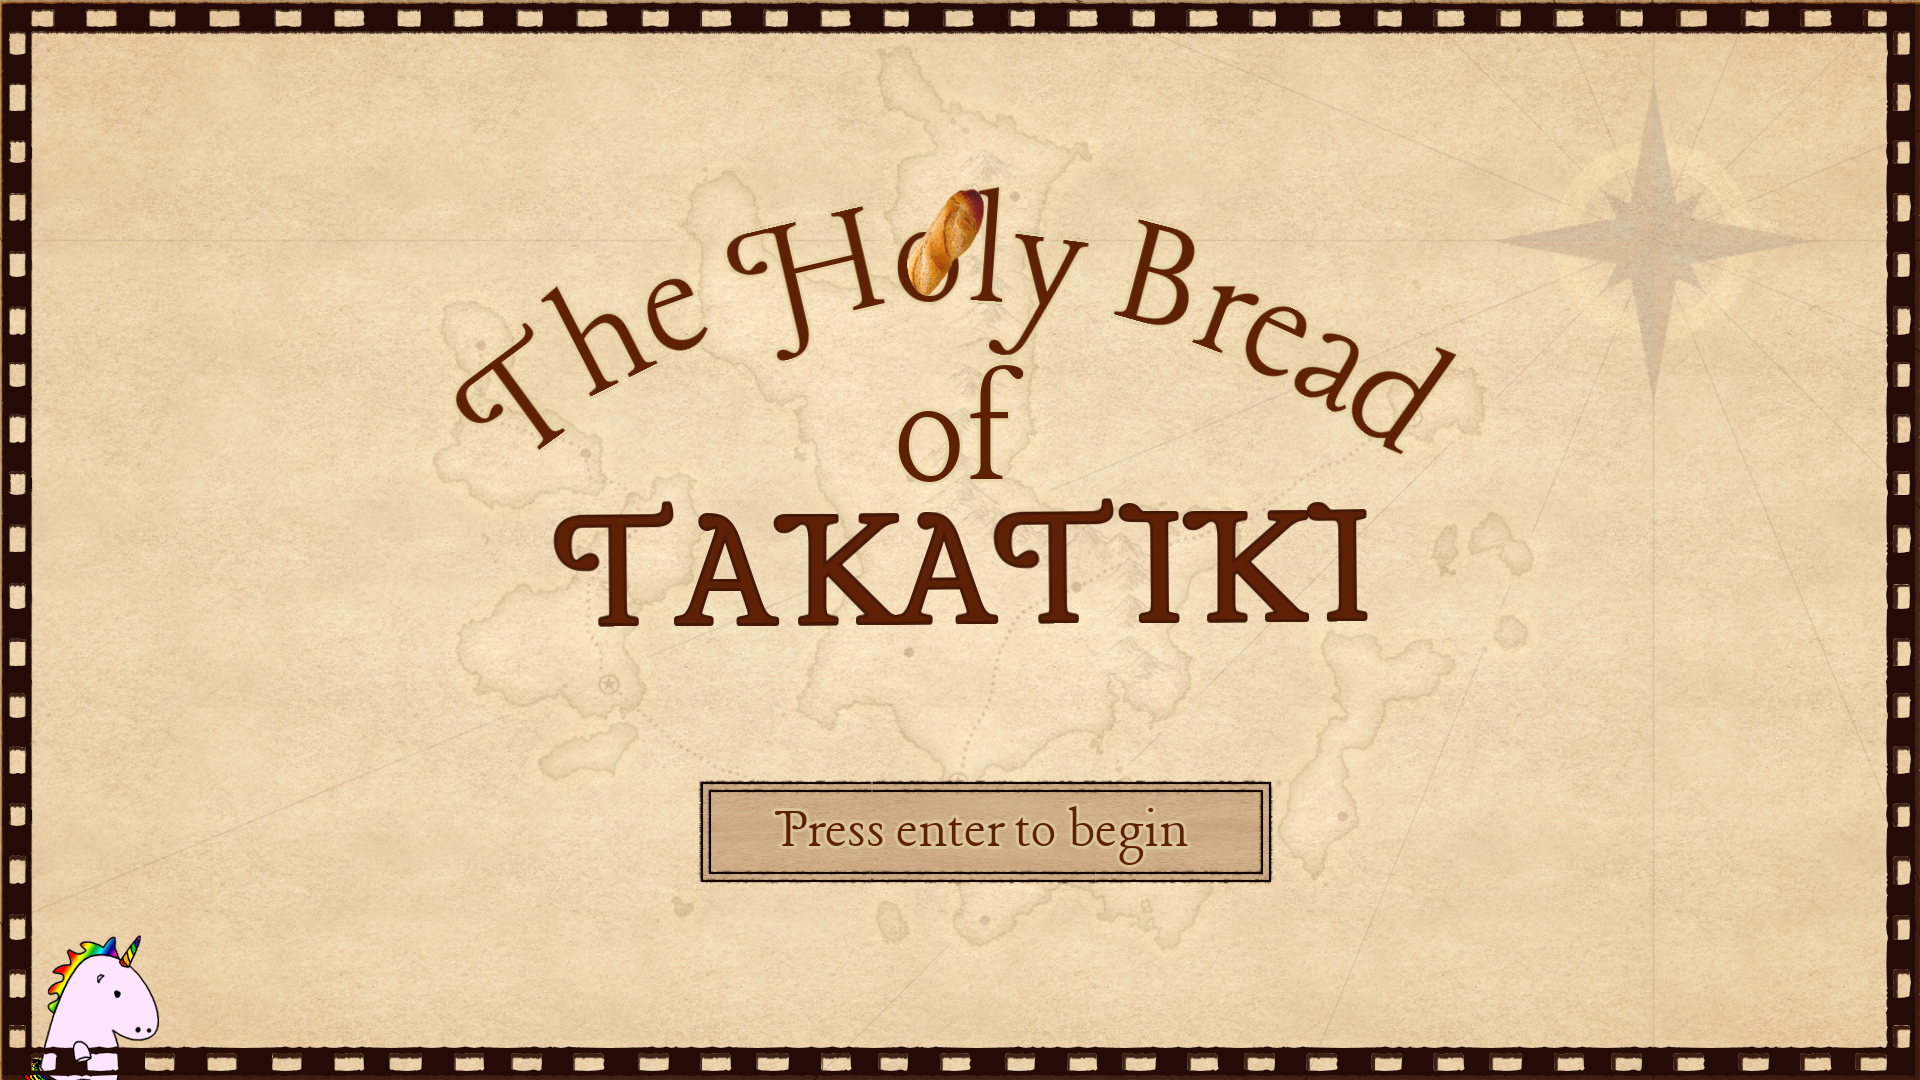
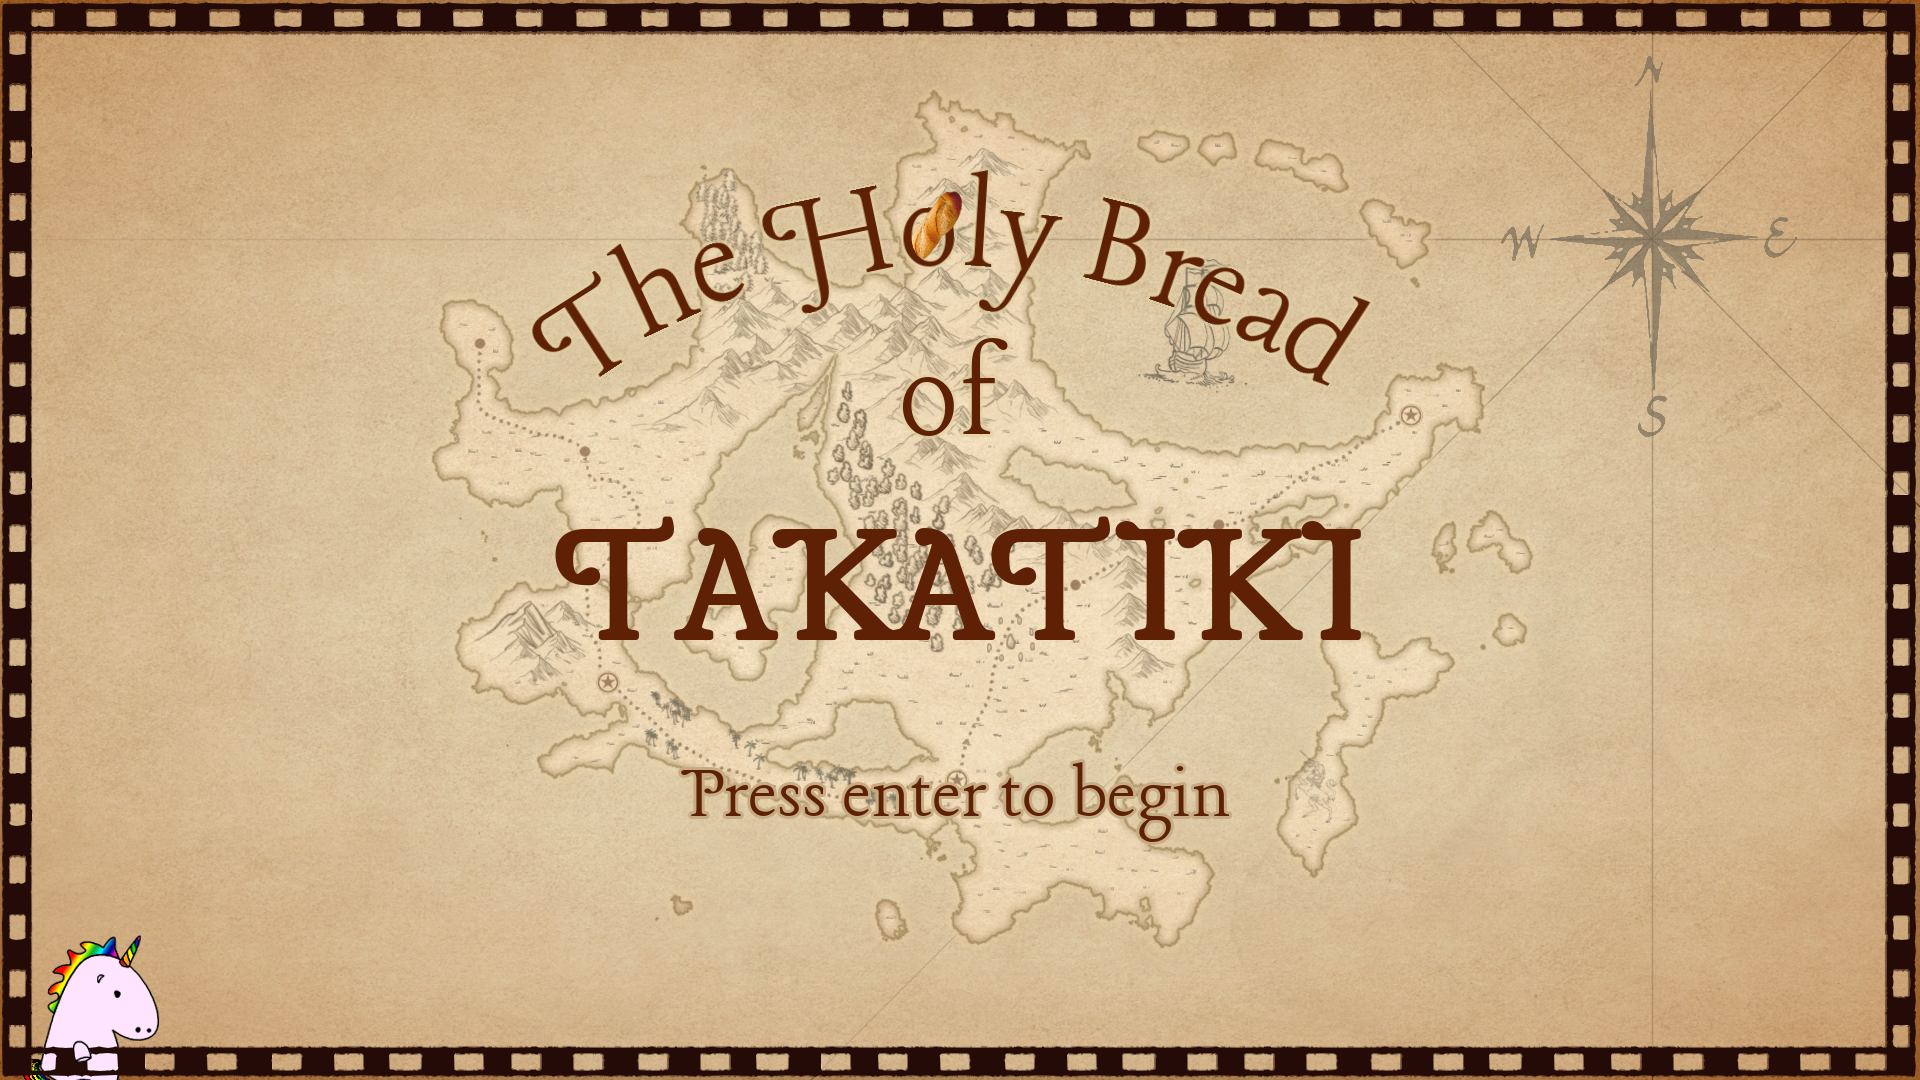
final push

diff --git a/main.cpp b/main.cpp
@@ -83,7 +83,7 @@ void constructBuyList(std::shared_ptr<DialogNode> shop, std::shared_ptr<DialogNo
 
 int main( int argc, char *argv[] ){
 	srand(static_cast<unsigned int>(time(NULL)));
-	sf::RenderWindow window(sf::VideoMode(1920, 1080), "The Holy Bread of Takatiki");
+	sf::RenderWindow window(sf::VideoMode(1920, 1080), "The Holy Bread of Takatiki", sf::Style::Fullscreen);
 	window.setFramerateLimit(60);
 
 	//=======================================================
@@ -139,13 +139,7 @@ int main( int argc, char *argv[] ){
 	//=======================================================
 	// Creating Character
 	//=======================================================
-	std::pair< std::string, std::string> anubisPair;
-	anubisPair.first = "Assets/Anubis/Idle_all.png";
-	anubisPair.second = "Assets/Anubis/Idle_000.png";
-	std::shared_ptr<Monster> testMonster = std::make_shared<Monster>("Jim", anubisPair);
-	testMonster->setDeathAnimation("Assets/Anubis/Dying_all.png");
-	std::vector<std::shared_ptr<Monster>> monsterVector = { testMonster };
-	Mob monsters = (monsterVector);
+
 
 	Party *hParty;
 	DM.load(hParty);
@@ -183,8 +177,55 @@ int main( int argc, char *argv[] ){
 	//=======================================================
 	// Creating Combat
 	//=======================================================
+	std::pair< std::string, std::string> anubisPair1;
+	anubisPair1.first = "Assets/Anubis/Idle_all.png";
+	anubisPair1.second = "Assets/Anubis/Idle_000.png";
+	std::shared_ptr<Monster> testMonster1 = std::make_shared<Monster>("Jim", anubisPair1);
+	testMonster1->setDeathAnimation("Assets/Anubis/Dying_all.png");
+	std::vector<std::shared_ptr<Monster>> monsterVector1 = { testMonster1 };
+	Mob monsters1 = (monsterVector1);
 
-	Combat testCombat(window, heroParty, monsters, "combatBackGround", background);
+	Combat testCombat1(window, heroParty, monsters1, "combatBackGround", background);
+
+	std::pair< std::string, std::string> anubisPair2;
+	anubisPair2.first = "Assets/Anubis/Idle_all.png";
+	anubisPair2.second = "Assets/Anubis/Idle_000.png";
+	std::shared_ptr<Monster> testMonster2 = std::make_shared<Monster>("Jim", anubisPair2);
+	testMonster2->setDeathAnimation("Assets/Anubis/Dying_all.png");
+	std::vector<std::shared_ptr<Monster>> monsterVector2 = { testMonster2 };
+	Mob monsters2 = (monsterVector2);
+
+	Combat testCombat2(window, heroParty, monsters2, "combatBackGround", background);
+
+	std::pair< std::string, std::string> anubisPair3;
+	anubisPair3.first = "Assets/Anubis/Idle_all.png";
+	anubisPair3.second = "Assets/Anubis/Idle_000.png";
+	std::shared_ptr<Monster> testMonster3 = std::make_shared<Monster>("Jim", anubisPair3);
+	testMonster3->setDeathAnimation("Assets/Anubis/Dying_all.png");
+	std::vector<std::shared_ptr<Monster>> monsterVector3 = { testMonster3 };
+	Mob monsters3 = (monsterVector3);
+
+	Combat testCombat3(window, heroParty, monsters3, "combatBackGround", background);
+
+	std::pair< std::string, std::string> anubisPair4;
+	anubisPair4.first = "Assets/Anubis/Idle_all.png";
+	anubisPair4.second = "Assets/Anubis/Idle_000.png";
+	std::shared_ptr<Monster> testMonster4 = std::make_shared<Monster>("Jim", anubisPair4);
+	testMonster4->setDeathAnimation("Assets/Anubis/Dying_all.png");
+	std::vector<std::shared_ptr<Monster>> monsterVector4 = { testMonster4 };
+	Mob monsters4 = (monsterVector4);
+
+	Combat testCombat4(window, heroParty, monsters4, "combatBackGround", background);
+
+	std::pair< std::string, std::string> anubisPair5;
+	anubisPair5.first = "Assets/Anubis/Idle_all.png";
+	anubisPair5.second = "Assets/Anubis/Idle_000.png";
+	std::shared_ptr<Monster> testMonster5 = std::make_shared<Monster>("Jim", anubisPair5);
+	testMonster5->setDeathAnimation("Assets/Anubis/Dying_all.png");
+	std::vector<std::shared_ptr<Monster>> monsterVector5 = { testMonster5 };
+	Mob monsters5 = (monsterVector5);
+
+	Combat testCombat5(window, heroParty, monsters5, "combatBackGround", background);
 
 	//=======================================================
 	// Creating Menu
@@ -219,13 +260,21 @@ int main( int argc, char *argv[] ){
 	
 	
 
-	std::shared_ptr<DialogNode> shopDialogNode0(new DialogNode("Do you wish to buy or sell items?"));
-	std::shared_ptr<DialogNode> shopDialogBuyNode(new DialogNode("What item do you wish to buy?"));
-	std::shared_ptr<DialogNode> shopDialogSellNode(new DialogNode("What item do you wish to sell?"));
+	std::shared_ptr<DialogNode> shopDialogNode0(new DialogNode("Do you wish to buy or sell items?", "town"));
+	std::shared_ptr<DialogNode> shopDialogBuyNode0(new DialogNode("What item do you wish to buy?", "town"));
+	std::shared_ptr<DialogNode> shopDialogSellNode0(new DialogNode("What item do you wish to sell?", "town"));
 
-	std::shared_ptr<DialogNode> smithDialogNode0(new DialogNode("Do you wish to buy or sell weapons and armor?"));
-	std::shared_ptr<DialogNode> smithDialogBuyNode(new DialogNode("What item do you wish to buy?"));
-	std::shared_ptr<DialogNode> smithDialogSellNode(new DialogNode("What item do you wish to sell?"));
+	std::shared_ptr<DialogNode> smithDialogNode0(new DialogNode("Do you wish to buy or sell weapons and armor?", "town"));
+	std::shared_ptr<DialogNode> smithDialogBuyNode0(new DialogNode("What item do you wish to buy?", "town"));
+	std::shared_ptr<DialogNode> smithDialogSellNode0(new DialogNode("What item do you wish to sell?", "town"));
+
+	std::shared_ptr<DialogNode> shopDialogNode1(new DialogNode("Do you wish to buy or sell items?", "town"));
+	std::shared_ptr<DialogNode> shopDialogBuyNode1(new DialogNode("What item do you wish to buy?", "town"));
+	std::shared_ptr<DialogNode> shopDialogSellNode1(new DialogNode("What item do you wish to sell?", "town"));
+
+	std::shared_ptr<DialogNode> smithDialogNode1(new DialogNode("Do you wish to buy or sell weapons and armor?", "town"));
+	std::shared_ptr<DialogNode> smithDialogBuyNode1(new DialogNode("What item do you wish to buy?", "town"));
+	std::shared_ptr<DialogNode> smithDialogSellNode1(new DialogNode("What item do you wish to sell?", "town"));
 
 	std::map<std::string, Armor> inventoryArmor;
 	std::map<std::string, Weapon> inventoryWeapon;
@@ -248,19 +297,28 @@ int main( int argc, char *argv[] ){
 		shopInventoryVector.push_back(std::make_shared<Consumable>(item.second));
 	}
 
-	// MapToVec(
+	// town 1
 	//shop
-	std::function<void()> shopBuyFunc = [&] {constructBuyList(shopDialogBuyNode, shopDialogNode0, heroParty, shopInventoryVector); };
-	shopDialogNode0->addDialogOption(std::make_shared<DialogOption>("Buy", shopDialogBuyNode, shopBuyFunc));
-	std::function<void()> shopSellFunc = [&] {constructSellList(shopDialogSellNode, shopDialogNode0, heroParty); };
-	shopDialogNode0->addDialogOption(std::make_shared<DialogOption>("Sell", shopDialogSellNode, shopSellFunc));
+	std::function<void()> shopBuyFunc = [&] {constructBuyList(shopDialogBuyNode0, shopDialogNode0, heroParty, shopInventoryVector); };
+	shopDialogNode0->addDialogOption(std::make_shared<DialogOption>("Buy", shopDialogBuyNode0, shopBuyFunc));
+	std::function<void()> shopSellFunc = [&] {constructSellList(shopDialogSellNode0, shopDialogNode0, heroParty); };
+	shopDialogNode0->addDialogOption(std::make_shared<DialogOption>("Sell", shopDialogSellNode0, shopSellFunc));
 	//smith
-	std::function<void()> smithBuyFunc = [&] {constructBuyList(smithDialogBuyNode, smithDialogNode0, heroParty, blackSmithInventoryVector); };
-	smithDialogNode0->addDialogOption(std::make_shared<DialogOption>("Buy", smithDialogBuyNode, smithBuyFunc));
-	std::function<void()> smithSellFunc = [&] {constructSellList(smithDialogSellNode, smithDialogNode0, heroParty); };
-	smithDialogNode0->addDialogOption(std::make_shared<DialogOption>("Sell", smithDialogSellNode, smithSellFunc));
-
-
+	std::function<void()> smithBuyFunc = [&] {constructBuyList(smithDialogBuyNode0, smithDialogNode0, heroParty, blackSmithInventoryVector); };
+	smithDialogNode0->addDialogOption(std::make_shared<DialogOption>("Buy", smithDialogBuyNode0, smithBuyFunc));
+	std::function<void()> smithSellFunc = [&] {constructSellList(smithDialogSellNode0, smithDialogNode0, heroParty); };
+	smithDialogNode0->addDialogOption(std::make_shared<DialogOption>("Sell", smithDialogSellNode0, smithSellFunc));
+	// town 2
+		//shop
+	std::function<void()> shopBuyFunc1 = [&] {constructBuyList(shopDialogBuyNode1, shopDialogNode1, heroParty, shopInventoryVector); };
+	shopDialogNode1->addDialogOption(std::make_shared<DialogOption>("Buy", shopDialogBuyNode1, shopBuyFunc1));
+	std::function<void()> shopSellFunc1 = [&] {constructSellList(shopDialogSellNode1, shopDialogNode1, heroParty); };
+	shopDialogNode1->addDialogOption(std::make_shared<DialogOption>("Sell", shopDialogSellNode1, shopSellFunc1));
+	//smith
+	std::function<void()> smithBuyFunc1 = [&] {constructBuyList(smithDialogBuyNode1, smithDialogNode1, heroParty, blackSmithInventoryVector); };
+	smithDialogNode1->addDialogOption(std::make_shared<DialogOption>("Buy", smithDialogBuyNode1, smithBuyFunc1));
+	std::function<void()> smithSellFunc1 = [&] {constructSellList(smithDialogSellNode1, smithDialogNode0, heroParty); };
+	smithDialogNode1->addDialogOption(std::make_shared<DialogOption>("Sell", smithDialogSellNode1, smithSellFunc1));
 	//=======================================================
 	// Functional Buildings
 	//=======================================================
@@ -328,7 +386,11 @@ int main( int argc, char *argv[] ){
 	// Creating Point Of Interest
 	//=======================================================
 	
-	functions["function1"] = [&testCombat]() {testCombat.update(); };
+	functions["combat1"] = [&]() { playMenuTheme = true; sound.stopMusic(); testCombat1.update(); };
+	functions["combat2"] = [&]() { playMenuTheme = true; sound.stopMusic(); testCombat2.update(); };
+	functions["combat3"] = [&]() { playMenuTheme = true; sound.stopMusic(); testCombat3.update(); };
+	functions["combat4"] = [&]() { playMenuTheme = true; sound.stopMusic(); testCombat4.update(); };
+	functions["combat5"] = [&]() { playMenuTheme = true; sound.stopMusic(); testCombat5.update(); };
 
 
 	PointOfInterestContainer poiCont(heroParty);
@@ -338,18 +400,20 @@ int main( int argc, char *argv[] ){
 
 	//city dialog
 	DialogTree cityDialogPoint1;
+	DialogTree cityDialogPoint2;
 	functions["cityDialogPoint1"] = [&cityDialogPoint1, &overWorldDialog]() {cityDialogPoint1.performDialogue(overWorldDialog); };
+	functions["cityDialogPoint2"] = [&cityDialogPoint2, &overWorldDialog]() {cityDialogPoint2.performDialogue(overWorldDialog); };
 	
 	DM.load(poibox);
 
-
+	///start town 1
 	std::shared_ptr<DialogNode> cityDialogPoint1Node0(new DialogNode("Do you wish to enter Villageville?"));
 	std::shared_ptr<DialogNode> cityDialogPoint1Node1(new DialogNode("What do you want to visit in Villageville?", "town"));
-	std::shared_ptr<DialogNode> cityDialogPoint1BankNode(new DialogNode("We are sorry the bank is under construction"));
-	std::shared_ptr<DialogNode> cityDialogPoint1SmithNode(new DialogNode("We are sorry the smith is under construction"));
+	std::shared_ptr<DialogNode> cityDialogPoint1BankNode(new DialogNode("We are sorry the bank is under construction", "town"));
+	std::shared_ptr<DialogNode> cityDialogPoint1SmithNode(new DialogNode("We are sorry the smith is under construction", "town"));
 	std::shared_ptr<DialogNode> cityDialogPoint1ChurchNode0(new DialogNode("You enter the church, do you wish to respec your ability points", "church"));
 	std::shared_ptr<DialogNode> cityDialogPoint1ChurchNode1(new DialogNode("Which character do you wish to respec?", "church"));
-	std::shared_ptr<DialogNode> cityDialogPoint1RandomHouseNode(new DialogNode("The houses look generic and boring, like they have been copied and pasted."));
+	std::shared_ptr<DialogNode> cityDialogPoint1RandomHouseNode(new DialogNode("The houses look generic and boring, like they have been copied and pasted.", "town"));
 
 	cityDialogPoint1Node0->addDialogOption(std::make_shared<DialogOption>("Yes", cityDialogPoint1Node1));
 	cityDialogPoint1Node0->addDialogOption(std::make_shared<DialogOption>("No", std::shared_ptr<DialogNode>(nullptr)));
@@ -383,6 +447,51 @@ int main( int argc, char *argv[] ){
 
 	shopDialogNode0->addDialogOption(std::make_shared<DialogOption>("Back", cityDialogPoint1Node1));
 	smithDialogNode0->addDialogOption(std::make_shared<DialogOption>("Back", cityDialogPoint1Node1));
+	//end town 1
+
+	//start town 2
+	std::shared_ptr<DialogNode> cityDialogPoint2Node0(new DialogNode("Do you wish to enter [insert bread-related town name]?"));
+	std::shared_ptr<DialogNode> cityDialogPoint2Node1(new DialogNode("What do you want to visit in [insert bread-related town name]?", "town"));
+	std::shared_ptr<DialogNode> cityDialogPoint2BankNode(new DialogNode("We are sorry the bank is under construction", "town"));
+	std::shared_ptr<DialogNode> cityDialogPoint2SmithNode(new DialogNode("We are sorry the smith is under construction", "town"));
+	std::shared_ptr<DialogNode> cityDialogPoint2ChurchNode0(new DialogNode("You enter the church, do you wish to respec your ability points", "church"));
+	std::shared_ptr<DialogNode> cityDialogPoint2ChurchNode1(new DialogNode("Which character do you wish to respec?", "church"));
+	std::shared_ptr<DialogNode> cityDialogPoint2RandomHouseNode(new DialogNode("The houses look generic and boring, like they have been copied and pasted.", "town"));
+
+	cityDialogPoint2Node0->addDialogOption(std::make_shared<DialogOption>("Yes", cityDialogPoint2Node1));
+	cityDialogPoint2Node0->addDialogOption(std::make_shared<DialogOption>("No", std::shared_ptr<DialogNode>(nullptr)));
+
+	cityDialogPoint2ChurchNode0->addDialogOption(std::make_shared<DialogOption>("yes", cityDialogPoint2ChurchNode1));
+	cityDialogPoint2ChurchNode0->addDialogOption(std::make_shared<DialogOption>("no", cityDialogPoint2Node1));
+
+	for (size_t i = 0; i < heroParty.size(); i++) {
+		cityDialogPoint2ChurchNode1->addDialogOption(std::make_shared<DialogOption>(heroParty[i]->getName(), cityDialogPoint2Node1, [&heroParty, i, &window, &background]() {AbilitySpeccing a(heroParty[i], window, background, "church"); a.resetAbilits(); a.use(window); window.clear(sf::Color::Transparent); }));
+	}
+
+
+
+	cityDialogPoint2Node1->addDialogOption(std::make_shared<DialogOption>("Bank", cityDialogPoint2BankNode));
+	cityDialogPoint2Node1->addDialogOption(std::make_shared<DialogOption>("Grocery", shopDialogNode0));
+	cityDialogPoint2Node1->addDialogOption(std::make_shared<DialogOption>("Metal shop", smithDialogNode0));
+	cityDialogPoint2Node1->addDialogOption(std::make_shared<DialogOption>("Church", cityDialogPoint2ChurchNode0));
+	cityDialogPoint2Node1->addDialogOption(std::make_shared<DialogOption>("Houses", cityDialogPoint2RandomHouseNode));
+	cityDialogPoint2Node1->addDialogOption(std::make_shared<DialogOption>("Leave VillageVille", std::shared_ptr<DialogNode>(nullptr)));
+
+	cityDialogPoint2BankNode->addDialogOption(std::make_shared<DialogOption>("Back", cityDialogPoint2Node1));
+
+
+	cityDialogPoint2RandomHouseNode->addDialogOption(std::make_shared<DialogOption>("Back", cityDialogPoint2Node1));
+
+	cityDialogPoint2.addNode(cityDialogPoint2Node0);
+	cityDialogPoint2.addNode(cityDialogPoint2Node1);
+	cityDialogPoint2.addNode(cityDialogPoint2BankNode);
+	cityDialogPoint2.addNode(cityDialogPoint2RandomHouseNode);
+
+
+	shopDialogNode1->addDialogOption(std::make_shared<DialogOption>("Back", cityDialogPoint2Node1));
+	smithDialogNode1->addDialogOption(std::make_shared<DialogOption>("Back", cityDialogPoint2Node1));
+	/// end town 2
+
 
 	background.setBackGround("takatiki", window);
 
@@ -409,9 +518,9 @@ int main( int argc, char *argv[] ){
 	KeyboardHandler keyHandl;
 
 
-	keyHandl.addListener(sf::Keyboard::Enter, [&]() { if (moveList.size() == 0 && POIMove.isFinished()) { poiCont.activate(); }; });
+	keyHandl.addListener(sf::Keyboard::Enter, [&]() { if (moveList.size() == 0 && POIMove.isFinished()) { poiCont.activate(); background.setBackGround("takatiki", window);};  });
 	
-	keyHandl.addListener(sf::Keyboard::Escape, [&menu, &window]() {menu.update(window); });
+	keyHandl.addListener(sf::Keyboard::Escape, [&]() {menu.update(window); background.setBackGround("takatiki", window); });
 
 
 
@@ -525,7 +634,10 @@ int main( int argc, char *argv[] ){
 				randomEncounter.performDialogue(overWorldDialog);
 			}
 			else if (encounterChange > 5 && encounterChange < 10) {
-				waterWellTree.performDialogue(overWorldDialog, false, 0);
+				waterWellTree.performDialogue(overWorldDialog, true, 20);
+			}
+			else if (encounterChange > 10 && encounterChange < 15) {
+				windmillTree.performDialogue(overWorldDialog, true , 20);
 			}
 			POIMove = TransformableMovement(partyOverWorldIcon, moveList.back(), 1.0f);
 			moveList.pop_back();

diff --git a/Character/PlayerCharacter.cpp b/Character/PlayerCharacter.cpp
@@ -180,26 +180,38 @@ std::vector<std::pair<DamageTypes, int>> PlayerCharacter::generateAttack(const s
 		return attackInformation;
 
 	} else {
+		try
+		{
+			Weapon currentWeapon = this->getWeapon(std::get<1>(attackDefenition));
+			DamageTypes weaponDamageType = currentWeapon.getPrimaryDamageEffect().first;
 
-		Weapon currentWeapon = this->getWeapon(std::get<1>(attackDefenition));
+			attackInformation[0].first = weaponDamageType;
 
-		DamageTypes weaponDamageType = currentWeapon.getPrimaryDamageEffect().first;
+			int primaryTypeDamage = currentWeapon.getPrimaryDamageEffect().second;
 
-		attackInformation[0].first = weaponDamageType;
-		
-		int primaryTypeDamage = currentWeapon.getPrimaryDamageEffect().second;
+			//Attack Damage				[AbilityScore Value]				*	[Weapon Value]	 +	[Twohanded Base Damage]
+			int finalAttackDamage = ((getStat(getScaling(weaponDamageType)) * primaryTypeDamage) + std::get<2>(attackDefenition));
 
-		//Attack Damage				[AbilityScore Value]				*	[Weapon Value]	 +	[Twohanded Base Damage]
-		int finalAttackDamage = ((getStat(getScaling(weaponDamageType)) * primaryTypeDamage) + std::get<2>(attackDefenition));
+			attackInformation[0].second = finalAttackDamage;
 
-		attackInformation[0].second = finalAttackDamage;
+			// Add Secondary DamageTypes and DamageValues
+			for (auto & index : currentWeapon.getSecondaryDamageEffects()) {
+				attackInformation.push_back(index);
+			}
 
-		// Add Secondary DamageTypes and DamageValues
-		for (auto & index : currentWeapon.getSecondaryDamageEffects()) {
-			attackInformation.push_back(index);
+			return attackInformation;
 		}
+		catch (const std::exception&)
+		{ //please send help thank you
+			attackInformation[0].first = DamageTypes::bludgeoning;
+			//Punch Damage = 											  [Base Value]	  *			[Strength]
+			attackInformation[0].second = static_cast<int>(std::get<2>(attackDefenition) * (getStat(AbilityScores::strength)));
 
-		return attackInformation;
+			return attackInformation;
+		}
+		
+
+		
 	}
 }
 //====================================================================================================================================
